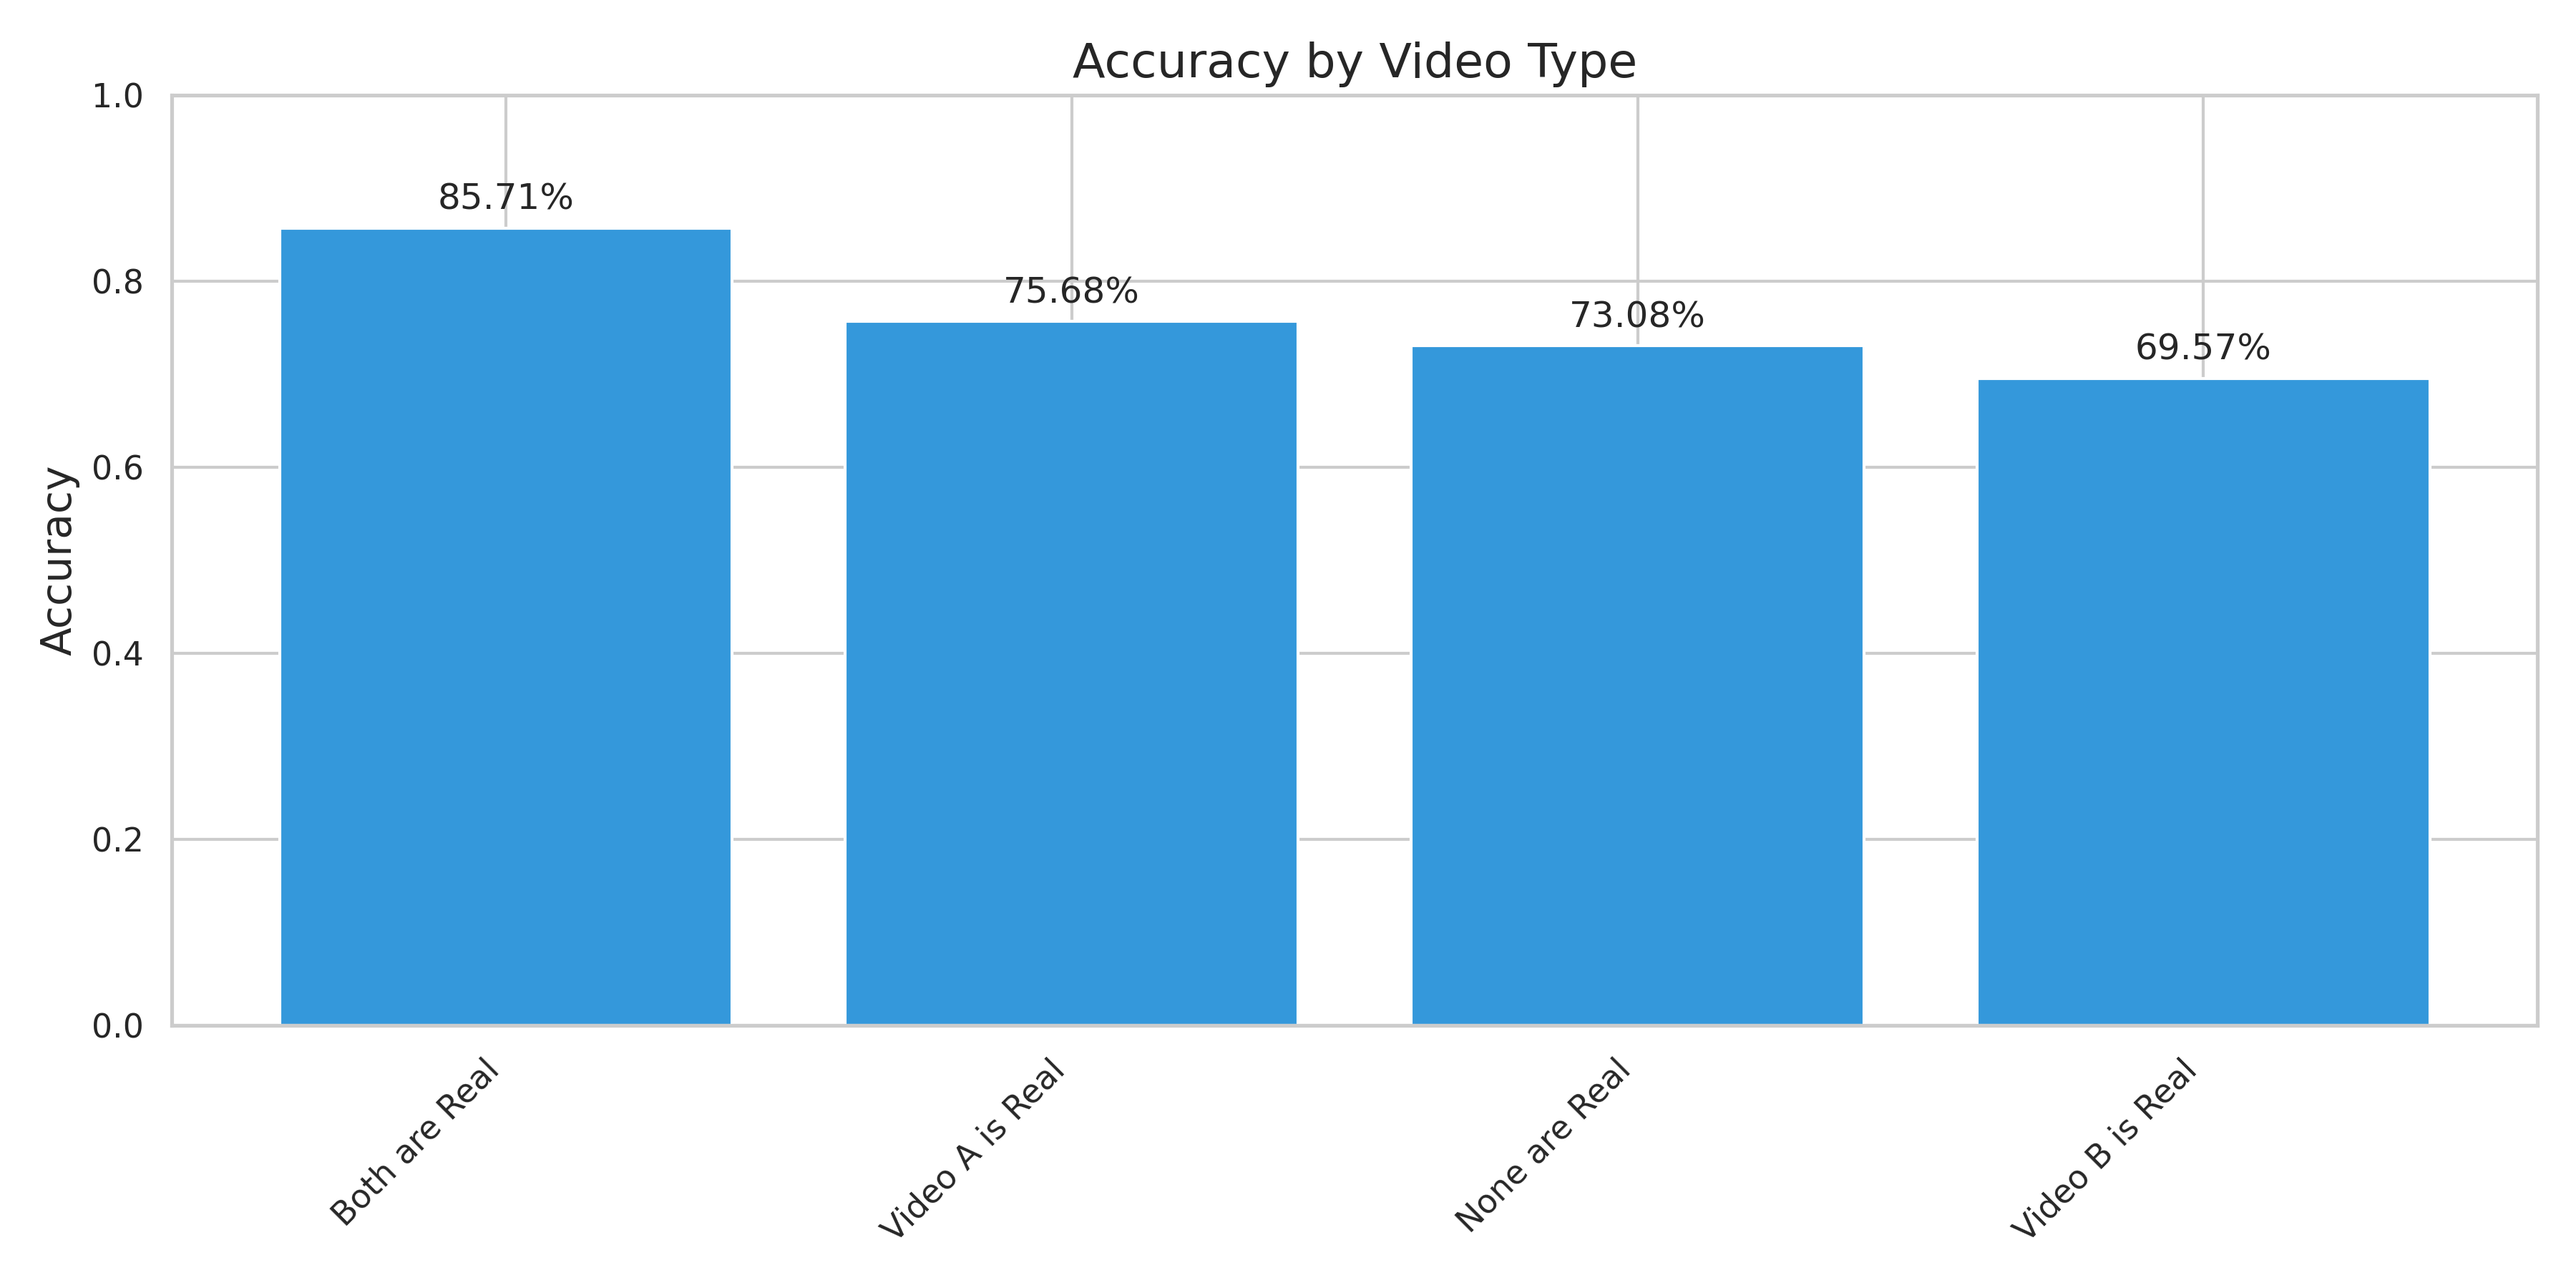
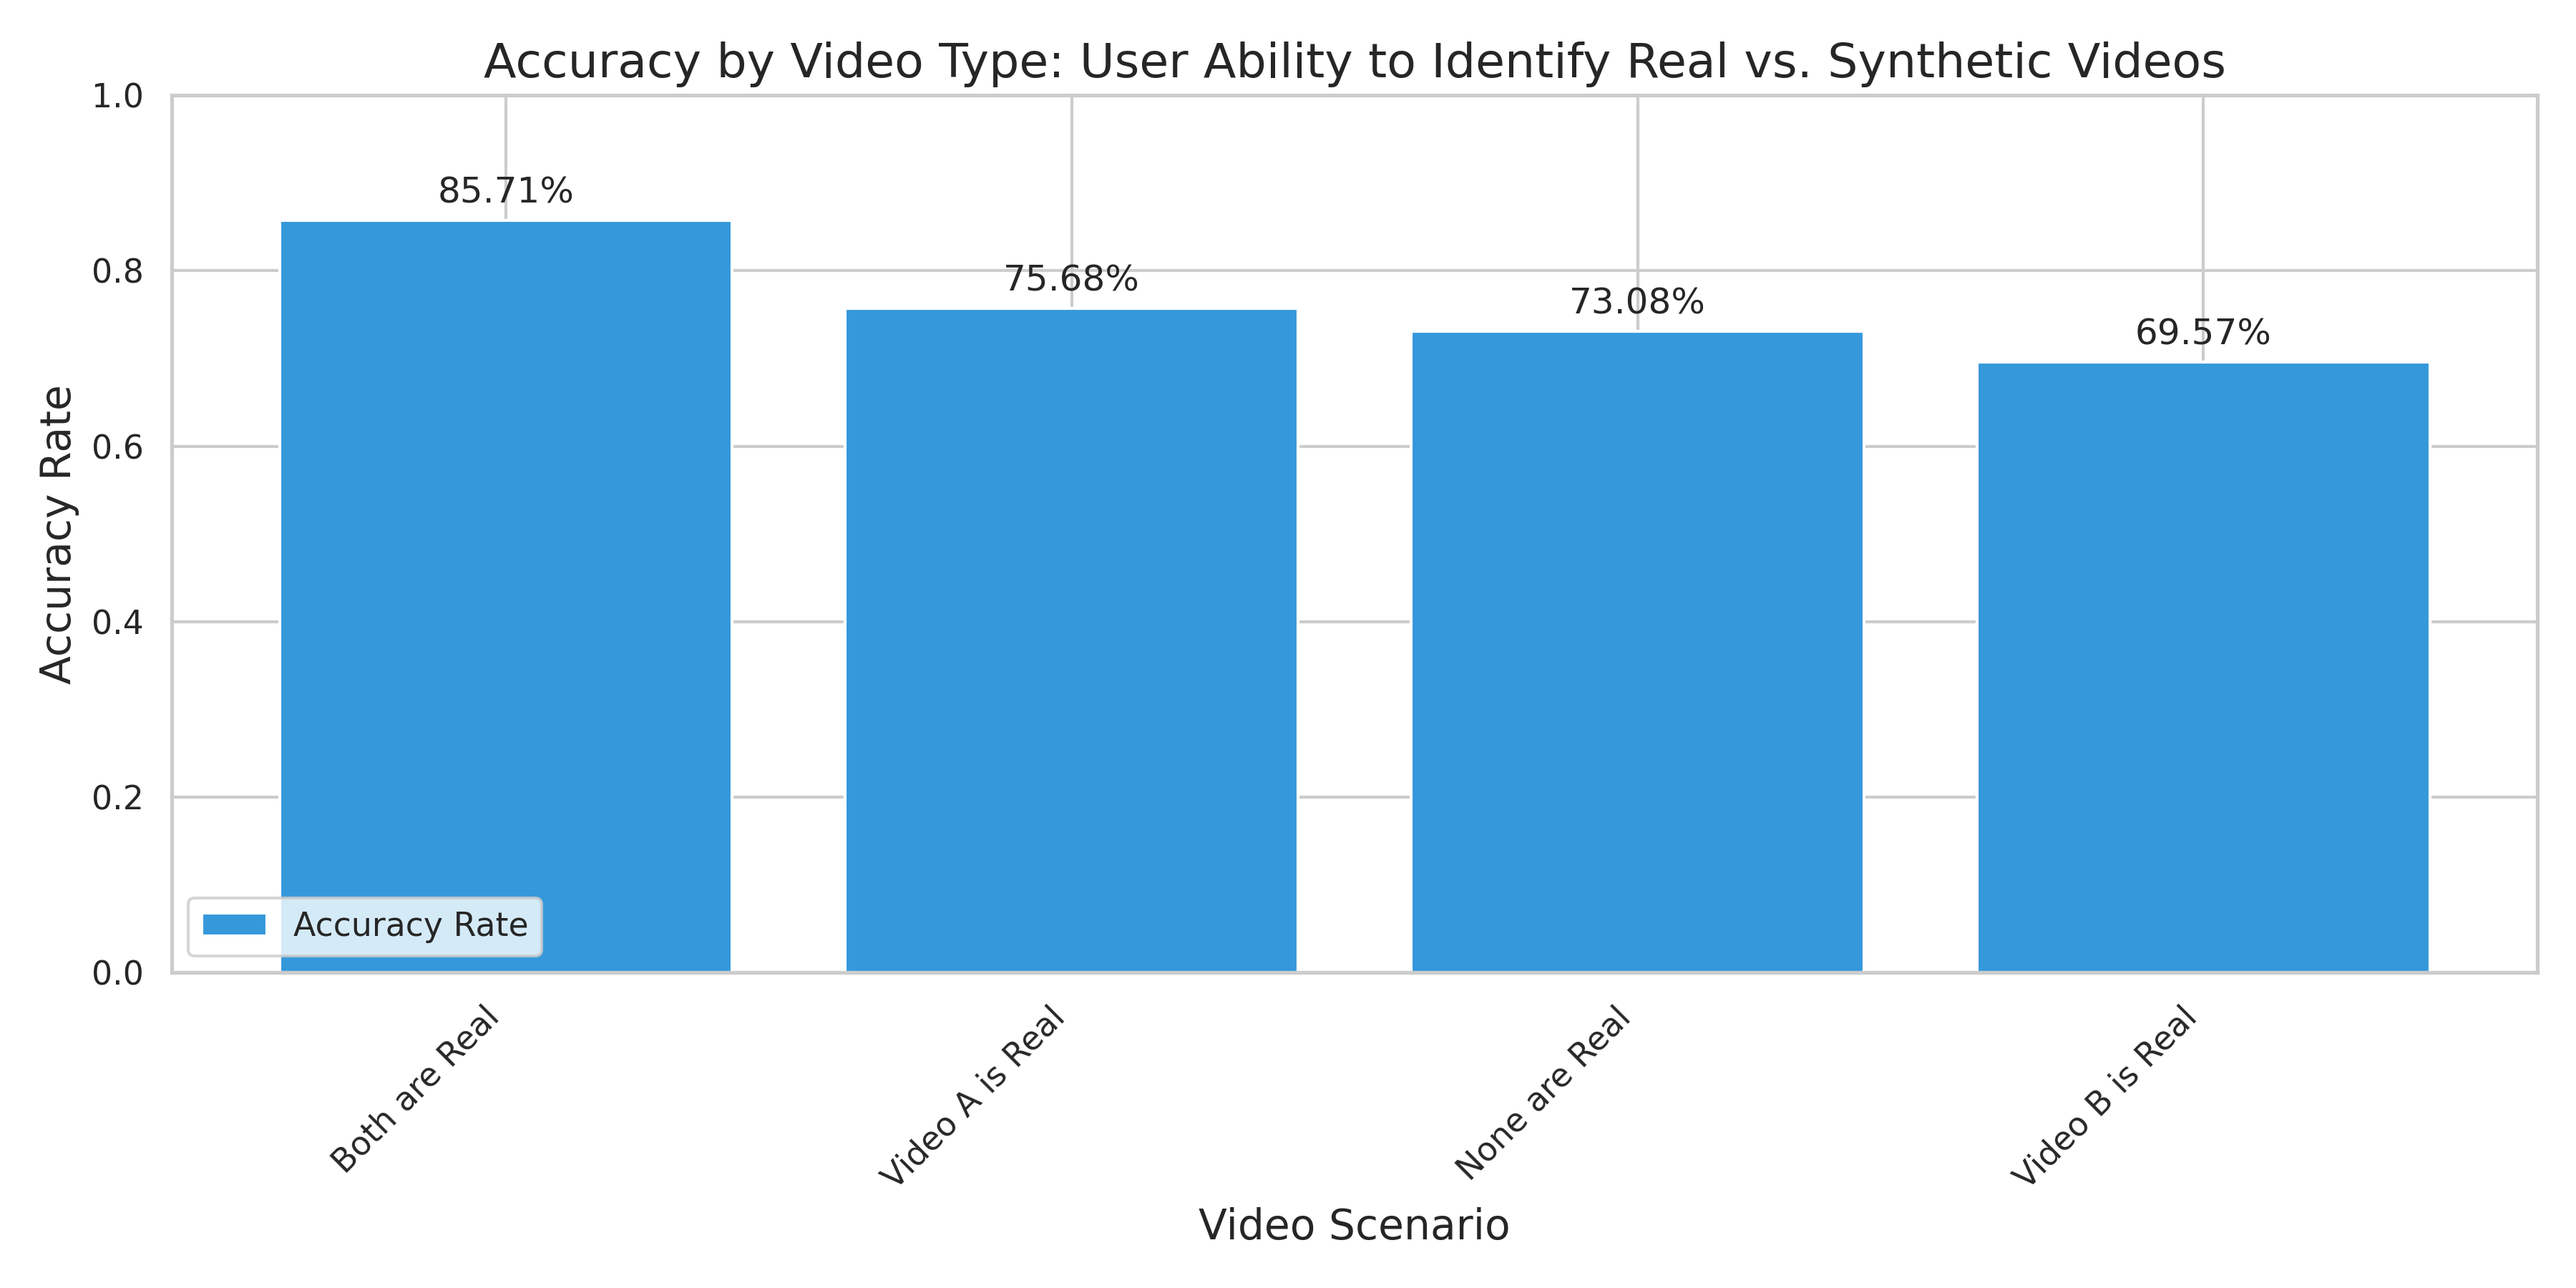
metrics working

diff --git a/retrieve_videos_from_user_hash_id.py b/retrieve_videos_from_user_hash_id.py
@@ -19,6 +19,9 @@ Usage:
 
 import argparse
 import json
+import csv
+import os
+from collections import defaultdict
 
 def hash_string_to_seed(s):
     """Convert a string to a 32-bit unsigned integer seed, matching JavaScript."""
@@ -53,28 +56,59 @@ def get_video_list_hash(videos):
 
 import json
 
-def load_video_list(filepath='video_list.json'):
-    """Load video list from JSON file with proper error handling."""
+def load_user_pairs_from_csv(user_id, filepath='qoe_data.csv'):
+    """Load video pairs for a specific user from the QoE data CSV file."""
+    if not os.path.exists(filepath):
+        print(f"Error: {filepath} not found. Please run download_qoe_data.py first.")
+        return None, None
+    
     try:
+        pairs = []
+        metadata = defaultdict(str)
+        seen_scenes = set()  # Track scenes we've already processed to avoid duplicates
+        
         with open(filepath, 'r') as f:
-            videos = json.load(f)
-        print(f"Loaded {len(videos)} videos from {filepath}")
-        return videos
+            reader = csv.DictReader(f)
+            for row in reader:
+                if row['User ID'] == user_id:
+                    # Extract metadata from the first matching row
+                    if not metadata['version']:
+                        metadata = {
+                            'version': row.get('Video List Version', 'unknown'),
+                            'hash': row.get('Video List Hash', 'unknown'),
+                            'timestamp': row.get('Video List Timestamp', 'unknown')
+                        }
+                    
+                    # Create a pair object
+                    scene = row.get('Scene', 'Unknown')
+                    
+                    # Skip if we've already seen this scene (to avoid duplicates)
+                    if scene in seen_scenes:
+                        continue
+                    
+                    pair = {
+                        'scene': scene,
+                        'videoA': row.get('Video A Filename', ''),
+                        'videoB': row.get('Video B Filename', ''),
+                        'scoreA': row.get('Video A Score', ''),
+                        'scoreB': row.get('Video B Score', '')
+                    }
+                    
+                    # Only add if both videos are specified
+                    if pair['videoA'] and pair['videoB']:
+                        pairs.append(pair)
+                        seen_scenes.add(scene)  # Mark this scene as processed
+        
+        if pairs:
+            print(f"Loaded {len(pairs)} pairs for user {user_id} from {filepath}")
+            return pairs, metadata
+        else:
+            print(f"No data found for user {user_id} in {filepath}")
+            return None, None
+            
     except Exception as e:
         print(f"Error loading {filepath}: {e}")
-        # Fallback to hardcoded list if file can't be loaded
-        fallback_videos = [
-            "videos/TEMP_TEST.mp4",
-            "videos/interpolated_rife_1280_720_30fps.mp4",
-            "videos/interpolated_video_addWeighted.mp4",
-            "videos/interpolated_video_film.mp4",
-            "videos/original_video.mp4",
-            "videos/original_video_1280_720.mp4",
-            "videos/original_video_upsampled_from_1280_720_to_1920_1080.mp4",
-            "videos/video_with_degrad_mk11_1080p.mp4"
-        ]
-        print(f"Using fallback list with {len(fallback_videos)} videos")
-        return fallback_videos
+        return None, None
 
 def generate_pairs_for_user(user_id, videos):
     """Generate the exact video pairs shown to a user during their session."""
@@ -147,24 +181,77 @@ def output_csv(pairs, filename=None):
     else:
         return csv_output
 
+# Known pairs from the spreadsheet data
+KNOWN_PAIRS = {
+    "ADBKIeixrc": [
+        {"scene": "Pair 27", "videoA": "videos/video_with_degrad_mk11_1080p.mp4", "videoB": "videos/original_video_1280_720.mp4"},
+        {"scene": "Pair 6", "videoA": "videos/original_video_upsampled_from_1280_720_to_1920_1080.mp4", "videoB": "videos/TEMP_TEST.mp4"}
+    ],
+    "NmxkPu7tqf": [
+        {"scene": "Pair 10", "videoA": "videos/interpolated_rife_1280_720_30fps.mp4", "videoB": "videos/original_video.mp4"}
+    ]
+}
+
 # Entry point
 if __name__ == "__main__":
     parser = argparse.ArgumentParser(description="Retrieve video pairs for a given user ID.")
     parser.add_argument("user_id", type=str, help="User ID to reproduce video pairs for")
     parser.add_argument("--csv", action="store_true", help="Output in CSV format")
     parser.add_argument("--save", type=str, help="Save output to file")
+    parser.add_argument("--generate", action="store_true", help="Generate pairs algorithmically instead of using CSV data")
     args = parser.parse_args()
     
-    # Load videos
-    videos = load_video_list()
-    video_list_hash = get_video_list_hash(videos)
+    # First try to load pairs directly from CSV
+    pairs = None
+    metadata = None
     
-    # Generate pairs
-    pairs = generate_pairs_for_user(args.user_id, videos)
+    if not args.generate:
+        pairs, metadata = load_user_pairs_from_csv(args.user_id)
+    
+    # If no pairs found in CSV or --generate flag is used, fall back to algorithmic generation
+    if pairs is None or args.generate:
+        print("Falling back to algorithmic pair generation...")
+        
+        # Load video list from JSON
+        try:
+            with open('video_list.json', 'r') as f:
+                data = json.load(f)
+            
+            if isinstance(data, dict) and "files" in data:
+                videos = data["files"]
+                metadata = {
+                    "version": data.get("version", "unknown"),
+                    "hash": data.get("hash", "unknown"),
+                    "timestamp": data.get("generated_at", "unknown")
+                }
+                print(f"Loaded {len(videos)} videos from video_list.json")
+            else:
+                raise ValueError("Unexpected JSON structure in video list file")
+                
+        except Exception as e:
+            print(f"Error loading video_list.json: {e}")
+            # Fallback to hardcoded list
+            videos = [
+                "videos/TEMP_TEST.mp4",
+                "videos/interpolated_rife_1280_720_30fps.mp4",
+                "videos/interpolated_video_addWeighted.mp4",
+                "videos/interpolated_video_film.mp4",
+                "videos/original_video.mp4",
+                "videos/original_video_1280_720.mp4",
+                "videos/original_video_upsampled_from_1280_720_to_1920_1080.mp4",
+                "videos/video_with_degrad_mk11_1080p.mp4"
+            ]
+            metadata = {"version": "unknown", "hash": "unknown", "timestamp": "unknown"}
+            print(f"Using fallback list with {len(videos)} videos")
+        
+        # Generate pairs algorithmically
+        pairs = generate_pairs_for_user(args.user_id, videos)
     
     # Output
-    print(f"User ID: {args.user_id}")
-    print(f"Video list hash: {video_list_hash}\n")
+    print(f"\nUser ID: {args.user_id}")
+    if metadata:
+        print(f"Video list version: {metadata['version']}")
+        print(f"Video list hash: {metadata['hash']}")
     
     if args.csv:
         if args.save:
@@ -173,7 +260,7 @@ if __name__ == "__main__":
             print(output_csv(pairs))
     else:
         # Default tab-separated output
-        print(f"{'Scene':<10}\t{'VideoA':<50}\t{'VideoB':<50}")
+        print(f"\n{'Scene':<10}\t{'VideoA':<50}\t{'VideoB':<50}")
         print("-" * 110)
         for pair in pairs:
             print(f"{pair['scene']:<10}\t{pair['videoA']:<50}\t{pair['videoB']:<50}")

diff --git a/analyze_qoe_data.py b/analyze_qoe_data.py
@@ -241,9 +241,11 @@ def generate_visualizations(results, output_dir='.'):
     plt.figure(figsize=(10, 6))
     plt.bar(['Correct', 'Incorrect'], 
             [results['overall_accuracy'], 1 - results['overall_accuracy']],
-            color=['#2ecc71', '#e74c3c'])
+            color=['#2ecc71', '#e74c3c'],
+            label=['Correct Identifications', 'Incorrect Identifications'])
     plt.title('Overall Accuracy in Identifying Real vs. Synthetic Videos', fontsize=16)
-    plt.ylabel('Proportion', fontsize=14)
+    plt.ylabel('Proportion of Responses', fontsize=14)
+    plt.xlabel('User Response Accuracy', fontsize=14)
     plt.ylim(0, 1)
     plt.text(0, results['overall_accuracy'] + 0.02, 
              f"{results['overall_accuracy']:.2%}", 
@@ -251,6 +253,14 @@ def generate_visualizations(results, output_dir='.'):
     plt.text(1, (1 - results['overall_accuracy']) + 0.02, 
              f"{1 - results['overall_accuracy']:.2%}", 
              ha='center', fontsize=12)
+    
+    # Add a legend to explain the color coding
+    handles = [
+        plt.Rectangle((0,0),1,1, color='#2ecc71'),
+        plt.Rectangle((0,0),1,1, color='#e74c3c')
+    ]
+    plt.legend(handles, ['Correct Identifications', 'Incorrect Identifications'], 
+               title='Response Accuracy', loc='upper right')
     plt.tight_layout()
     plt.savefig(os.path.join(output_dir, 'overall_accuracy.png'), dpi=300)
     
@@ -264,9 +274,12 @@ def generate_visualizations(results, output_dir='.'):
     video_types = [video_types[i] for i in sorted_indices]
     accuracies = [accuracies[i] for i in sorted_indices]
     
-    bars = plt.bar(video_types, accuracies, color='#3498db')
-    plt.title('Accuracy by Video Type', fontsize=16)
-    plt.ylabel('Accuracy', fontsize=14)
+    # Add a more descriptive title and labels
+    bars = plt.bar(video_types, accuracies, color='#3498db', 
+                  label='Accuracy Rate')
+    plt.title('Accuracy by Video Type: User Ability to Identify Real vs. Synthetic Videos', fontsize=16)
+    plt.ylabel('Accuracy Rate', fontsize=14)
+    plt.xlabel('Video Scenario', fontsize=14)
     plt.ylim(0, 1)
     plt.xticks(rotation=45, ha='right')
     
@@ -277,28 +290,42 @@ def generate_visualizations(results, output_dir='.'):
                  f"{accuracies[i]:.2%}", 
                  ha='center', fontsize=12)
     
+    # Add a legend to explain the bars
+    plt.legend(loc='lower left')
+    
     plt.tight_layout()
     plt.savefig(os.path.join(output_dir, 'accuracy_by_type.png'), dpi=300)
     
     # 3. Confusion matrix heatmap
     plt.figure(figsize=(10, 8))
     sns.heatmap(results['confusion_matrix'], annot=True, cmap='Blues', fmt='.2%',
-                cbar_kws={'label': 'Proportion'})
-    plt.title('Confusion Matrix: Reality vs. User Guess', fontsize=16)
-    plt.ylabel('Reality', fontsize=14)
-    plt.xlabel('User Guess', fontsize=14)
+                cbar_kws={'label': 'Proportion of Responses'})
+    plt.title('Confusion Matrix: Actual Video Reality vs. User Guess', fontsize=16)
+    plt.ylabel('Actual Reality (Ground Truth)', fontsize=14)
+    plt.xlabel('User Guess (Perceived Reality)', fontsize=14)
+    
+    # Add a text annotation
     plt.tight_layout()
     plt.savefig(os.path.join(output_dir, 'confusion_matrix.png'), dpi=300)
     
     # 4. Distribution of user accuracy
     plt.figure(figsize=(10, 6))
-    sns.histplot(results['accuracy_by_user'], bins=10, kde=True, color='#9b59b6')
+    # Create the histogram with KDE and explicitly label the KDE curve
+    ax = sns.histplot(results['accuracy_by_user'], bins=10, kde=True, color='#9b59b6')
+    # Get the line objects from the axes
+    lines = ax.get_lines()
+    # The first line should be the KDE curve
+    if lines:
+        # Set the label for the KDE curve
+        lines[0].set_label('Density Estimation (KDE)')
+    
     plt.title('Distribution of User Accuracy', fontsize=16)
     plt.xlabel('Accuracy', fontsize=14)
     plt.ylabel('Number of Users', fontsize=14)
     plt.axvline(results['overall_accuracy'], color='red', linestyle='--', 
                 label=f'Overall Accuracy: {results["overall_accuracy"]:.2%}')
-    plt.legend()
+    # Add a more descriptive legend that explains all elements
+    plt.legend(title='Legend', loc='best')
     plt.tight_layout()
     plt.savefig(os.path.join(output_dir, 'user_accuracy_distribution.png'), dpi=300)
     
